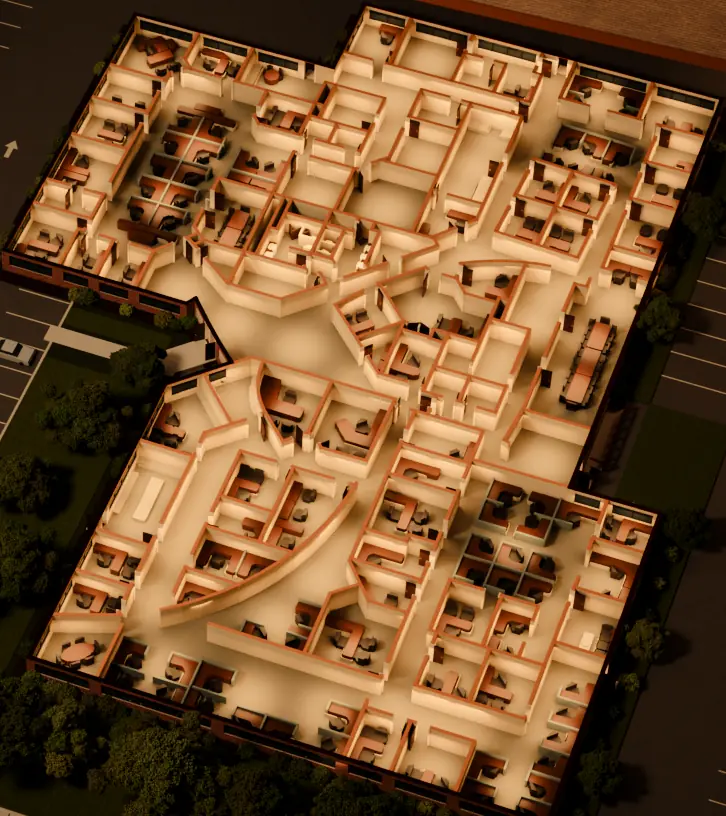
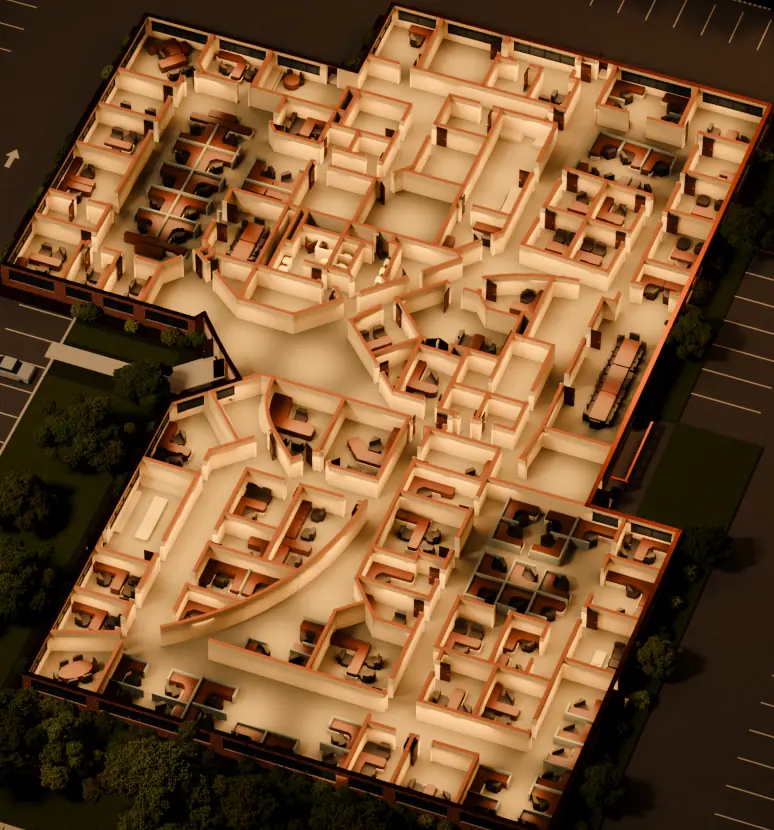
Publish site

diff --git a/rooms.js b/rooms.js
@@ -1,3 +1,5 @@
-const ROOMS=[[1,[1150,205,1197,218,1174,265,1127,252],[1149,226,1195,238,1173,285,1125,273]],[2,[1197,218,1259,234,1255,242,1251,251,1237,282,1174,265],[1195,238,1257,255,1253,262,1249,271,1235,302,1173,285]],[3,[1438,282,1507,300,1492,339,1428,321,1423,320],[1435,302,1503,320,1488,359,1425,342,1420,340]],[4,[1237,282,1250,254,1268,258,1279,262,1291,265,1278,293],[1235,302,1248,274,1266,279,1277,282,1289,285,1276,313]],[5,[1259,234,1328,253,1322,267,1319,273,1327,276,1314,303,1278,293,1291,265,1279,262,1268,258,1250,254,1251,251,1255,242],[1257,255,1326,273,1319,287,1316,293,1324,296,1312,323,1276,313,1289,285,1277,282,1266,279,1248,274,1249,271,1253,262]],[6,[1492,339,1478,375,1430,362,1440,337,1444,328,1445,326],[1488,359,1474,395,1427,382,1437,357,1441,348,1441,346]],[7,[893,265,920,215,984,232,969,259,975,270,968,269,957,273,954,274,950,281],[893,285,921,236,983,253,969,279,975,290,968,290,957,293,954,294,950,301]],[8,[984,232,1038,247,1020,282,1018,282,1006,279,975,270,969,259],[983,253,1038,268,1020,303,1018,302,1006,299,975,290,969,279]],[12,[1206,290,1256,304,1243,331,1194,317],[1205,310,1254,324,1242,351,1192,337]],[13,[1194,317,1243,331,1222,377,1165,361,1174,358,1188,328,1193,319],[1192,337,1242,351,1221,397,1164,381,1173,378,1186,349,1191,339]],[14,[1307,317,1268,405,1232,395,1220,391,1216,390,1256,304],[1305,338,1266,425,1230,415,1218,412,1215,410,1254,324]],[15,[1478,375,1463,412,1415,399,1426,374,1429,365,1430,362],[1474,395,1460,432,1412,419,1423,394,1426,385,1427,382]],[16,[875,297,893,265,950,281,949,283,944,292,933,313],[876,317,893,285,950,301,949,304,944,312,933,333]],[17,[1052,291,1100,304,1084,336,1043,325,1039,317,1040,316,1044,307],[1051,311,1099,325,1083,356,1043,345,1038,338,1039,336,1043,327]],[20,[1319,359,1357,372,1340,407,1300,395,1313,370,1318,362],[1316,380,1355,392,1338,427,1298,415,1311,390,1315,382]],[21,[1322,445,1340,407,1382,420,1381,422,1363,459],[1319,466,1338,427,1379,440,1378,442,1360,479]],[22,[1357,372,1400,385,1398,387,1382,420,1340,407],[1355,392,1397,406,1395,407,1379,440,1338,427]],[23,[1463,412,1445,459,1396,446,1415,399],[1460,432,1441,479,1393,466,1412,419]],[24,[854,334,875,297,933,313,913,350],[855,354,876,317,933,333,913,370]],[25,[1038,247,1118,269,1127,252,1303,300,1297,315,1206,290,1193,319,1188,328,1174,358,1156,364,1144,370,1140,369,1079,352,1057,394,1004,379,988,409,979,427,984,434,970,439,958,444,939,452,914,445,869,432,870,430,875,421,890,393,895,384,944,292,949,283,954,274,957,273,968,269,975,270,1006,279,1018,282,1052,291,1044,307,1040,316,1039,317,1043,325,1084,336,1088,336,1099,340,1129,348,1142,351,1145,352,1158,324,1162,315,1170,299,1110,283,1100,304,1020,282],[1038,268,1117,289,1125,273,1301,320,1294,335,1205,310,1191,339,1186,349,1173,378,1154,384,1143,390,1139,390,1078,372,1057,414,1004,399,988,429,979,447,984,454,970,459,958,464,939,472,915,465,870,452,871,450,875,441,890,413,895,404,944,312,949,304,954,294,957,293,968,290,975,290,1006,299,1018,302,1051,311,1043,327,1039,336,1038,338,1043,345,1083,356,1087,357,1099,360,1128,368,1140,371,1144,372,1157,344,1161,335,1169,319,1110,303,1099,325,1020,303]],[26,[1140,369,1119,411,1069,397,1057,394,1079,352],[1139,390,1118,431,1068,418,1057,414,1078,372]],[27,[1222,377,1197,433,1119,411,1140,369,1144,370,1156,364,1165,361],[1221,397,1195,453,1118,431,1139,390,1143,390,1154,384,1164,381]],[28,[1216,390,1220,391,1232,395,1268,405,1261,421,1252,424,1241,429,1218,438,1219,440,1197,433],[1215,410,1218,412,1230,415,1266,425,1259,441,1250,444,1239,449,1216,458,1217,460,1195,453]],[29,[1300,395,1340,407,1322,445,1280,432],[1298,415,1338,427,1319,466,1278,452]],[30,[829,379,854,334,913,350,895,384,890,393,888,396,868,390],[830,399,855,354,913,370,895,404,890,413,889,416,869,410]],[31,[1057,394,1029,452,989,441,979,427,988,409,1004,379],[1057,414,1028,472,988,461,979,447,988,429,1004,399]],[39,[1240,479,1247,464,1260,463,1275,462,1291,462,1306,463,1311,463,1295,501,1284,498,1282,503,1250,494],[1239,499,1245,484,1258,483,1273,482,1288,482,1304,483,1309,483,1293,521,1282,518,1280,523,1248,514]],[41,[843,467,789,451,816,402,876,419,875,421,870,430,869,432,863,430],[844,487,791,471,817,422,876,439,875,441,871,450,870,452,864,450]],[42,[816,402,829,379,868,390,888,396,876,419],[817,422,830,399,869,410,889,416,876,439]],[44,[989,441,1029,452,1012,484,990,459,983,450,979,445],[988,461,1028,472,1012,504,990,479,983,470,979,465]],[46,[1163,484,1164,484,1188,522,1144,538,1141,538,1120,506,1150,490,1162,487],[1161,504,1163,504,1187,542,1143,558,1139,558,1119,526,1148,510,1161,507]],[47,[1164,484,1211,468,1214,471,1226,475,1240,479,1250,494,1282,503,1265,543,1216,529,1204,527,1188,522],[1163,504,1209,488,1212,491,1225,495,1239,499,1248,514,1280,523,1263,563,1214,549,1203,546,1187,542]],[48,[1188,522,1204,527,1216,529,1219,530,1215,538,1186,530],[1187,542,1203,546,1214,549,1217,550,1214,558,1184,550]],[50,[879,477,843,467,863,430,899,440],[880,497,844,487,864,450,899,460]],[51,[919,489,879,477,899,440,914,445,939,452],[920,509,880,497,899,460,915,465,939,472]],[52,[1166,575,1186,530,1215,538,1214,539,1229,544,1210,587,1206,586,1193,583],[1164,595,1184,550,1214,558,1212,559,1227,564,1208,607,1204,606,1192,603]],[56,[987,573,1016,564,1017,564,1037,558,1049,562,1047,566,1045,570,1044,575,1043,580,1043,584,1043,589,1043,594,1044,599,1046,604,1048,608,1050,613,1046,615,1032,620,1017,625],[987,593,1016,583,1017,584,1036,578,1048,582,1046,585,1045,590,1043,595,1043,599,1042,604,1042,609,1043,614,1044,619,1045,623,1047,628,1049,633,1045,634,1031,640,1017,644]],[57,[1049,562,1117,582,1093,634,1090,634,1077,639,1068,642,1050,613,1048,608,1046,604,1044,599,1043,594,1043,589,1043,584,1043,580,1044,575,1045,570,1047,566],[1048,582,1116,601,1092,654,1089,653,1076,659,1067,662,1049,633,1047,628,1045,623,1044,619,1043,614,1042,609,1042,604,1043,599,1043,595,1045,590,1046,585]],[58,[1117,582,1180,600,1178,604,1151,662,1106,649,1104,644,1096,635,1093,634],[1116,601,1178,620,1176,624,1150,681,1105,668,1103,664,1095,655,1092,654]],[59,[1200,612,1268,632,1254,664,1186,644,1187,641,1191,630],[1198,631,1266,652,1252,684,1184,664,1185,660,1190,650]],[60,[923,640,950,585,987,573,1017,625,989,633,984,644,979,654,978,657],[923,660,950,605,987,593,1017,644,989,653,984,664,979,674,978,676]],[61,[1186,644,1254,664,1248,680,1242,694,1173,674],[1184,664,1252,684,1246,699,1240,714,1171,693]],[62,[1393,699,1445,715,1431,754,1378,738,1379,736,1383,725],[1390,719,1442,734,1427,774,1375,758,1376,756,1380,745]],[63,[879,729,923,640,978,657,945,725,940,736,935,747],[879,749,923,660,978,676,945,744,940,755,935,766]],[64,[1025,652,1062,663,1076,667,1079,668,1058,713,1004,696],[1025,671,1062,682,1075,686,1078,687,1057,732,1004,715]],[65,[1079,668,1120,680,1140,686,1132,698,1121,712,1109,726,1095,740,1079,752,1078,753,1044,743],[1078,687,1119,699,1139,705,1131,717,1120,732,1108,746,1094,759,1079,771,1077,773,1043,762]],[66,[1173,674,1242,694,1231,721,1226,732,1222,744,1193,735,1190,742,1149,729],[1171,693,1240,714,1229,741,1225,751,1220,763,1191,755,1189,761,1147,749]],[67,[1004,696,1058,713,1044,743,990,726,992,723,996,713],[1004,715,1057,732,1043,762,990,746,991,743,996,732]],[68,[1135,759,1206,781,1199,796,1192,814,1153,802,1145,785,1134,762],[1134,778,1204,800,1198,816,1191,833,1152,821,1144,804,1133,781]],[69,[1149,729,1190,742,1193,735,1222,744,1218,753,1206,781,1135,759],[1147,749,1189,761,1191,755,1220,763,1216,772,1204,800,1134,778]],[70,[1235,781,1287,796,1267,847,1215,831],[1233,800,1284,816,1265,866,1213,850]],[71,[1413,804,1393,859,1338,842,1354,803,1358,792,1359,788],[1410,823,1390,878,1336,861,1351,822,1355,811,1356,807]],[72,[858,770,879,729,935,747,922,772,917,783,915,787],[859,789,879,749,935,766,923,792,917,802,916,806]],[73,[990,726,1078,753,1063,764,1045,774,1027,784,1024,785,970,768,971,766,976,756],[990,746,1077,773,1062,783,1045,794,1026,803,1023,805,970,787,971,785,976,775]],[74,[1145,785,1153,802,1192,814,1172,864,1167,875,1165,879,1089,854,1115,794],[1144,804,1152,821,1191,833,1170,883,1165,894,1164,898,1088,873,1114,814]],[75,[1275,849,1253,902,1200,886,1212,856,1217,845,1222,833],[1272,869,1251,921,1198,905,1210,875,1215,864,1220,852]],[76,[1329,866,1314,906,1310,918,1309,920,1253,902,1275,849],[1326,885,1311,925,1307,936,1306,938,1251,921,1272,869]],[77,[836,815,858,770,915,787,909,801,904,812,906,816],[837,834,859,789,916,806,909,820,904,831,906,835]],[78,[1175,974,1128,959,1150,907,1178,916,1192,921,1196,922],[1173,993,1127,978,1148,926,1176,935,1190,939,1194,941]],[79,[1239,995,1175,974,1196,922,1201,924,1215,928,1260,942],[1237,1013,1173,993,1194,941,1199,942,1213,947,1257,961]],[80,[1188,522,1186,530,1166,575,1164,574,1147,548,1141,539,1141,538,1144,538],[1187,542,1184,550,1164,595,1162,594,1146,568,1140,559,1139,558,1143,558]],[81,[1445,459,1436,482,1423,479,1397,471,1387,469,1396,446],[1441,479,1432,502,1420,499,1394,491,1384,489,1393,466]],[82,[1433,489,1378,630,1308,610,1309,609,1325,568,1344,523,1348,513,1360,484,1372,488,1375,478],[1430,509,1375,650,1305,630,1306,629,1323,588,1341,543,1345,533,1357,504,1369,507,1373,498]],[83,[1378,630,1355,688,1285,668,1295,644,1289,641,1308,610],[1375,650,1352,708,1282,688,1292,664,1287,661,1305,630]],[84,[1431,754,1413,804,1359,788,1364,776,1373,751,1378,738],[1427,774,1410,823,1356,807,1361,796,1370,770,1375,758]],[85,[1287,796,1323,807,1309,843,1303,858,1267,847],[1284,816,1320,827,1307,862,1301,877,1265,866]],[86,[970,768,1024,785,1007,792,987,800,966,806,951,809,958,794],[970,787,1023,805,1007,812,987,819,966,825,951,829,958,813]],[87,[881,880,814,858,836,815,906,816,907,826],[881,899,815,877,837,834,906,835,907,845]]];
-const OUTER=[1149,226,1503,320,1352,708,1442,734,1330,1043,815,877,950,605,1016,583,1003,561,992,542,981,519,971,524,791,471,921,236,1117,289];
-const CROP=[785, 201, 726, 816];
+const ROOMS=[[1,[1070,320,1120,333,1094,384,1043,370],[1070,342,1119,355,1093,406,1043,392]],[2,[1120,333,1186,351,1181,359,1177,369,1160,402,1094,384],[1119,355,1185,373,1180,381,1176,391,1159,424,1093,406]],[3,[1375,402,1447,421,1428,462,1362,444,1356,442],[1373,424,1445,443,1426,484,1360,466,1354,464]],[4,[1160,402,1175,372,1194,377,1206,380,1219,384,1203,414],[1159,424,1174,394,1193,399,1205,402,1218,406,1202,436]],[5,[1186,351,1259,371,1251,386,1248,393,1256,395,1242,424,1203,414,1219,384,1206,380,1194,377,1175,372,1177,369,1181,359],[1185,373,1258,393,1250,408,1247,414,1255,417,1240,446,1202,436,1218,406,1205,402,1193,399,1174,394,1176,391,1180,381]],[6,[1428,462,1411,500,1362,486,1374,460,1378,451,1379,449],[1426,484,1409,521,1360,508,1372,482,1376,473,1377,470]],[7,[793,383,823,331,891,349,875,377,881,389,873,388,861,393,858,393,854,400],[794,405,824,352,891,371,876,399,882,411,873,410,862,414,859,415,855,422]],[8,[891,349,949,365,929,402,926,402,914,398,881,389,875,377],[891,371,949,387,929,424,927,424,914,420,882,411,876,399]],[12,[1127,411,1179,425,1165,454,1112,439],[1126,432,1178,447,1164,475,1112,461]],[13,[1112,439,1165,454,1140,502,1080,485,1090,482,1106,451,1111,441],[1112,461,1164,475,1140,524,1080,507,1089,504,1105,473,1111,463]],[14,[1233,440,1188,532,1150,521,1137,517,1133,516,1179,425],[1232,461,1187,553,1149,543,1137,539,1133,538,1178,447]],[15,[1411,500,1393,539,1344,525,1356,499,1360,490,1362,486],[1409,521,1391,560,1342,547,1354,520,1358,511,1360,508]],[16,[773,418,793,383,854,400,852,403,847,413,835,435],[774,440,794,405,855,422,853,425,848,434,836,457]],[17,[962,412,1013,426,995,459,952,447,948,440,949,438,953,429],[962,433,1013,448,995,481,952,469,948,461,949,459,953,450]],[20,[1243,484,1284,497,1263,534,1222,521,1237,495,1242,487],[1242,506,1282,519,1262,556,1221,543,1236,517,1241,508]],[21,[1242,574,1263,534,1307,547,1306,549,1284,587],[1241,595,1262,556,1305,569,1304,571,1283,609]],[22,[1284,497,1328,511,1326,513,1307,547,1263,534],[1282,519,1327,533,1324,535,1305,569,1262,556]],[23,[1393,539,1371,588,1320,574,1344,525],[1391,560,1369,610,1319,596,1342,547]],[24,[751,457,773,418,835,435,813,474],[752,479,774,440,836,457,813,496]],[25,[949,365,1034,388,1043,370,1230,421,1222,437,1127,411,1111,441,1106,451,1090,482,1070,489,1058,494,1053,494,989,476,965,520,909,504,891,536,881,555,886,562,871,567,859,573,838,580,812,573,765,559,766,558,771,548,787,519,793,509,847,413,852,403,858,393,861,393,873,388,881,389,914,398,926,402,962,412,953,429,949,438,948,440,952,447,995,459,999,460,1011,464,1042,472,1056,475,1059,476,1075,446,1079,437,1088,420,1025,403,1013,426,929,402],[949,387,1034,410,1043,392,1229,443,1221,458,1126,432,1111,463,1105,473,1089,504,1070,510,1057,516,1053,516,989,498,965,541,909,526,892,558,881,576,887,584,872,589,859,594,839,602,813,594,766,581,767,579,772,570,788,541,794,531,848,434,853,425,859,415,862,414,873,410,882,411,914,420,927,424,962,433,953,450,949,459,948,461,952,469,995,481,999,481,1011,485,1042,494,1055,497,1059,498,1074,468,1079,459,1087,442,1025,425,1013,448,929,424]],[26,[1053,494,1029,538,977,524,965,520,989,476],[1053,516,1029,560,977,545,965,541,989,498]],[27,[1140,502,1111,561,1029,538,1053,494,1058,494,1070,489,1080,485],[1140,524,1110,583,1029,560,1053,516,1057,516,1070,510,1080,507]],[28,[1133,516,1137,517,1150,521,1188,532,1180,548,1170,551,1158,556,1133,566,1134,568,1111,561],[1133,538,1137,539,1149,543,1187,553,1179,570,1169,573,1157,578,1132,587,1133,589,1110,583]],[29,[1222,521,1263,534,1242,574,1199,560],[1221,543,1262,556,1241,595,1198,582]],[30,[724,504,751,457,813,474,793,509,787,519,786,522,765,516],[725,526,752,479,813,496,794,531,788,541,787,544,766,538]],[31,[965,520,933,581,891,569,881,555,891,536,909,504],[965,541,933,602,891,591,881,576,892,558,909,526]],[39,[1155,608,1163,593,1176,591,1192,591,1208,591,1224,592,1230,592,1211,632,1200,628,1197,634,1164,624],[1154,630,1162,614,1175,613,1191,612,1207,612,1223,613,1229,614,1210,653,1199,650,1196,655,1163,646]],[41,[737,596,681,579,710,529,772,546,771,548,766,558,765,559,759,557],[739,617,682,601,711,551,773,568,772,570,767,579,766,581,760,579]],[42,[710,529,724,504,765,516,786,522,772,546],[711,551,725,526,766,538,787,544,773,568]],[44,[891,569,933,581,915,614,892,587,885,578,881,574],[891,591,933,602,915,635,893,609,885,600,881,595]],[46,[1073,614,1074,613,1098,653,1052,669,1048,669,1027,636,1059,620,1072,616],[1073,635,1074,635,1098,674,1051,690,1047,691,1027,657,1059,642,1072,638]],[47,[1074,613,1124,597,1127,600,1140,604,1155,608,1164,624,1197,634,1177,674,1127,660,1115,657,1098,653],[1074,635,1123,619,1126,622,1139,626,1154,630,1163,646,1196,655,1177,696,1126,682,1114,679,1098,674]],[48,[1098,653,1115,657,1127,660,1130,661,1126,669,1095,661],[1098,674,1114,679,1126,682,1129,682,1125,690,1095,682]],[50,[775,607,737,596,759,557,796,568],[776,628,739,617,760,579,797,590]],[51,[817,619,775,607,796,568,812,573,838,580],[818,641,776,628,797,590,813,594,839,602]],[52,[1072,707,1095,661,1126,669,1125,670,1140,675,1118,719,1114,718,1101,715],[1072,728,1095,682,1125,690,1124,692,1139,696,1118,741,1113,740,1100,736]],[56,[886,705,917,695,918,696,938,690,951,693,949,697,947,702,945,707,944,712,944,716,944,721,944,726,945,731,947,736,948,741,951,745,946,747,931,753,916,757],[887,726,917,717,918,717,938,711,951,715,949,719,947,723,946,728,945,733,944,738,944,743,944,748,945,753,947,757,949,762,951,767,947,769,932,774,916,779]],[57,[951,693,1021,714,994,767,991,766,978,772,968,775,951,745,948,741,947,736,945,731,944,726,944,721,944,716,944,712,945,707,947,702,949,697],[951,715,1021,735,994,788,991,788,978,793,968,796,951,767,949,762,947,757,945,753,944,748,944,743,944,738,945,733,946,728,947,723,949,719]],[58,[1021,714,1086,732,1084,737,1054,794,1008,781,1006,777,998,768,994,767],[1021,735,1086,754,1084,758,1054,816,1007,803,1005,798,998,789,994,788]],[59,[1107,744,1177,764,1161,797,1091,777,1092,773,1097,763],[1106,765,1176,786,1160,819,1090,798,1092,795,1097,784]],[60,[818,773,847,717,886,705,916,757,887,766,881,777,876,787,875,790],[818,794,848,739,887,726,916,779,887,787,882,798,877,809,876,811]],[61,[1091,777,1161,797,1154,812,1147,827,1076,807],[1090,798,1160,819,1153,834,1146,849,1076,828]],[62,[1303,832,1356,847,1339,887,1285,871,1286,869,1291,858],[1301,854,1354,869,1337,908,1284,892,1285,890,1290,879]],[63,[770,862,818,773,875,790,839,858,834,868,828,879],[771,883,818,794,876,811,840,879,835,890,829,901]],[64,[924,784,962,795,976,800,979,801,956,845,901,829],[924,806,962,817,976,821,979,822,956,867,901,850]],[65,[979,801,1021,813,1042,819,1033,831,1021,845,1008,859,993,872,977,885,975,886,940,876],[979,822,1021,834,1041,840,1033,852,1021,866,1008,880,993,894,977,906,975,907,941,897]],[66,[1076,807,1147,827,1134,854,1129,865,1124,877,1095,868,1092,875,1049,862],[1076,828,1146,849,1134,875,1129,886,1123,898,1094,889,1091,896,1049,883]],[67,[901,829,956,845,940,876,885,859,887,856,892,846],[901,850,956,867,941,897,886,881,888,877,892,867]],[68,[1034,892,1106,913,1099,929,1091,946,1051,934,1043,917,1033,894],[1034,913,1106,934,1098,950,1090,967,1051,955,1043,938,1033,916]],[69,[1049,862,1092,875,1095,868,1124,877,1120,885,1106,913,1034,892],[1049,883,1091,896,1094,889,1123,898,1119,906,1106,934,1034,913]],[70,[1136,913,1189,928,1166,978,1113,962],[1135,934,1188,950,1165,999,1112,983]],[71,[1318,936,1294,990,1239,973,1257,935,1262,924,1264,920],[1316,957,1293,1011,1238,994,1256,956,1260,945,1262,941]],[72,[749,902,770,862,828,879,815,905,809,916,807,919],[750,923,771,883,829,901,816,926,810,937,808,941]],[73,[885,859,975,886,960,896,941,907,922,916,919,918,864,901,865,899,870,889],[886,881,975,907,960,917,941,928,922,937,919,939,865,922,866,920,871,910]],[74,[1043,917,1051,934,1091,946,1068,995,1062,1005,1061,1009,983,985,1012,926],[1043,938,1051,955,1090,967,1067,1016,1062,1026,1060,1030,983,1006,1012,948]],[75,[1174,981,1150,1032,1096,1016,1110,987,1115,976,1120,964],[1173,1002,1149,1053,1095,1037,1109,1008,1114,997,1119,986]],[76,[1229,997,1211,1035,1206,1047,1205,1049,1150,1032,1174,981],[1227,1018,1210,1056,1205,1068,1204,1070,1149,1053,1173,1002]],[77,[725,947,749,902,807,919,800,933,795,943,797,947],[726,968,750,923,808,941,801,954,796,965,798,968]],[78,[1067,1101,1020,1087,1044,1037,1072,1046,1086,1050,1090,1051],[1067,1122,1020,1108,1043,1058,1072,1067,1086,1071,1090,1072]],[79,[1131,1121,1067,1101,1090,1051,1096,1053,1110,1057,1154,1071],[1131,1142,1067,1122,1090,1072,1095,1074,1109,1078,1153,1092]],[80,[1098,653,1095,661,1072,707,1070,706,1054,680,1048,670,1048,669,1052,669],[1098,674,1095,682,1072,728,1070,727,1053,701,1048,692,1047,691,1051,690]],[81,[1371,588,1360,612,1347,608,1320,600,1309,598,1320,574],[1369,610,1358,633,1345,630,1319,622,1308,619,1319,596]],[82,[1357,619,1291,763,1219,743,1220,741,1239,700,1261,654,1266,643,1280,614,1292,617,1297,608],[1355,641,1289,784,1218,764,1219,763,1238,721,1260,675,1265,665,1279,636,1291,639,1295,629]],[83,[1291,763,1264,821,1192,801,1204,777,1198,774,1219,743],[1289,784,1263,843,1191,822,1203,798,1197,795,1218,764]],[84,[1339,887,1318,936,1264,920,1269,909,1280,884,1285,871],[1337,908,1316,957,1262,941,1268,930,1278,905,1284,892]],[85,[1189,928,1225,939,1210,974,1202,989,1166,978],[1188,950,1224,960,1209,995,1201,1010,1165,999]],[86,[864,901,919,918,902,925,881,932,859,938,843,941,851,926],[865,922,919,939,902,946,881,953,860,959,844,962,852,947]],[87,[770,1010,702,989,725,947,797,947,798,957],[771,1031,704,1010,726,968,798,968,799,979]]];
+const OUTER=[1070,342,1445,443,1263,843,1354,869,1223,1170,704,1010,848,739,917,717,904,694,893,674,882,651,872,656,682,601,824,352,1034,410];
+const CROP=[677, 316, 774, 830];
+const FRAME=[1980, 1620];
+const MODEL=[52, 50, 1928, 1569];

diff --git a/site.js b/site.js
@@ -55,23 +55,19 @@ function setLang(l) {
 }
 $('#lang').addEventListener('click', () => setLang(root.lang === 'en' ? 'ru' : 'en'));
 
-// --- Камера над кадром: какая часть кадра на экране и насколько крупно --------------------------
-const BOX = [775, 205, 1515, 1040];
+// --- Макет на экране: целиком по центру, под заголовком. Не шире PLACE.wide экрана (телефон на всю ширину), и вместе с заголовком помещается в экран, снизу air точек воздуха ---
+const PLACE = { wide: .75, air: 40 };
 const view = { k: 1, x: 0, y: 0 };
 const apply = () => { rig.style.transform = `translate(${view.x}px,${view.y}px) scale(${view.k})`; };
-// Телефон стоймя: заголовок сверху, макет крупнее ширины экрана, его можно двигать пальцем вбок
+// Телефон стоймя: лист комнаты закрывает низ экрана, макет под ним приподнимается (sheet.js)
 const tall = () => matchMedia('(max-width:899px) and (orientation:portrait)').matches;
+Object.assign(rig.style, { width: FRAME[0] + 'px', height: FRAME[1] + 'px' });
 
 function place() {
-  const w = plan.clientWidth, h = plan.clientHeight, [x0, y0, x1, y1] = BOX, bw = x1 - x0, bh = y1 - y0;
-  const head = tall() ? $('.plan-head').offsetHeight : 0, room = h - head;
-  planStage.style.top = head + 'px';
-  // Сбоку от макета остаётся место для заголовка: левый край стола на его высоте примерно на 480 в кадре
-  const free = $('.plan-head').offsetLeft + $('.plan-head').offsetWidth + 16;
-  // Кадр всегда выше экрана: его верх и низ обрезаны ровной линией и показаться не должны
-  const k = tall() ? Math.min((room - 12) / bh, w * 1.38 / bw) : Math.max(h / 1080, Math.min((h - 32) / bh, 1.3, (w - free) / (x1 - 480)));
-  const cx = tall() ? w / 2 : Math.min(w - bw * k / 2 - 8, Math.max(w * .68, free + (x0 + bw / 2 - 480) * k));
-  Object.assign(view, { k, x: cx - (x0 + bw / 2) * k, y: Math.max(Math.max(tall() ? 4 : 16, (room - bh * k) / 2) - y0 * k, room - 1080 * k) });
+  const [x0, y0, x1, y1] = MODEL, w = planStage.clientWidth;
+  const k = Math.min((innerWidth < 900 ? w : Math.min(w, innerWidth * PLACE.wide)) / (x1 - x0), Math.max(160, innerHeight - planStage.offsetTop - PLACE.air) / (y1 - y0));
+  planStage.style.height = (y1 - y0) * k + 'px';
+  Object.assign(view, { k, x: (w - (x0 + x1) * k) / 2, y: -y0 * k });
   lifted = 0;
   rig.style.transition = 'none'; // на свои места сразу, плавно едет только подъём под лист
   if (shown) lift(shown); else apply();
@@ -82,7 +78,6 @@ function place() {
 // Страницу двинули дальше: лист уходит сразу, чтобы прокрутка не казалась зависшей
 addEventListener('scroll', () => { if (Math.abs(scrollY - sheetAt) > 40) closeSheet(true); }, { passive: true });
 addEventListener('resize', place);
-
 // --- Комнаты: контуры лежат в странице, отклик есть с первого касания ---------------------------
 const SCALE = 1.5;
 const [CX, CY, CW, CH] = CROP;
@@ -181,35 +176,22 @@ function setHot(r) {
   wake();
 }
 
-// --- Палец и мышь. Вниз страницу прокручивает сам браузер, вбок палец идёт по комнатам ------------
+// --- Палец и мышь. Страницу прокручивает сам браузер, нажатие открывает комнату ------------
 function point(e) {
-  const b = rig.getBoundingClientRect(), k = b.width / 1920;
+  const b = rig.getBoundingClientRect(), k = b.width / FRAME[0];
   return roomAt((e.clientX - b.left) / k, (e.clientY - b.top) / k, k);
 }
-// Палец двигает крупный макет вбок, короткое нажатие открывает комнату
-let dragX = null, dragged = false;
 rig.addEventListener('pointerdown', (e) => {
-  dragged = false;
   if (e.pointerType === 'mouse') return;
   setHot(point(e));
   if (hot) hot.a = 1; // палец: комната горит сразу, без нарастания
-  dragX = tall() ? e.clientX : null;
-  rig.style.transition = 'none';
 });
 rig.addEventListener('pointermove', (e) => {
   setHot(point(e));
   if (e.pointerType === 'mouse') rig.classList.toggle('over', !!hot); // рука только над комнатой
-  if (dragX === null) return;
-  const by = e.clientX - dragX;
-  if (Math.abs(by) < 4 && !dragged) return;
-  dragged = true;
-  dragX = e.clientX;
-  view.x = Math.min(8 - BOX[0] * view.k, Math.max(plan.clientWidth - 8 - BOX[2] * view.k, view.x + by));
-  apply();
 });
-['pointerup', 'pointercancel', 'pointerleave'].forEach((n) => rig.addEventListener(n, () => { setHot(null); dragX = null; rig.style.transition = ''; }));
+['pointerup', 'pointercancel', 'pointerleave'].forEach((n) => rig.addEventListener(n, () => setHot(null)));
 rig.addEventListener('click', (e) => {
-  if (dragged) return;
   const r = point(e);
   if (r) openSheet(r);
 });
@@ -321,48 +303,6 @@ lead.addEventListener('submit', (e) => {
   leadOff.scrollIntoView({ block: 'nearest' });
 });
 
-// --- Первый экран: картинка здания разрезана на полосы, как вырезанные люди у Žít Braník. В покое она целая (rest, доля высоты, 0),
-// при загрузке полосы съезжаются с разной высоты, при прокрутке вниз расходятся, каждая со своей скоростью. Без движения остаётся целая картинка ---
-const STRIPS = { desk: 14, phone: 7, drift: .32, rest: 0 }; // drift: насколько сильнее страницы уезжает самая быстрая полоса
-const heroBox = $('.hero'), heroPhoto = $('.hero .photo');
-addEventListener('resize', () => heroFrame());
-let heroStrips = [];
-function cutHero() {
-  const img = heroPhoto.querySelector('img'), n = innerWidth < 900 ? STRIPS.phone : STRIPS.desk;
-  const band = document.createElement('div');
-  band.className = 'bands';
-  heroStrips = [...Array(n)].map((_, i) => {
-    const s = document.createElement('i'), copy = document.createElement('img');
-    copy.src = img.currentSrc || img.src;
-    copy.alt = '';
-    s.style.clipPath = `inset(0 ${(100 - (i + 1) * 100 / n - .05).toFixed(3)}% 0 ${(i * 100 / n).toFixed(3)}%)`;
-    s.speed = ((i * .618) % 1) * STRIPS.drift;
-    s.rest = (i % 2 ? 1 : -1) * (.3 + .7 * ((i * .382) % 1)) * STRIPS.rest;
-    s.append(copy);
-    // Сборка: полоса приходит сверху или снизу на долю своей высоты, по очереди от середины к краям
-    copy.animate([{ transform: `translateY(${((i % 2 ? 1 : -1) * (6 + 10 * ((i * .382) % 1))).toFixed(1)}%)`, opacity: 0 }, { transform: 'none', opacity: 1 }],
-      { duration: 1400, delay: 60 * Math.abs(i - (n - 1) / 2), easing: 'cubic-bezier(.16,1,.3,1)', fill: 'backwards' });
-    band.append(s);
-    return s;
-  });
-  heroPhoto.append(band);
-  heroBox.classList.add('cut');
-}
-function heroFrame() {
-  const y = Math.min(scrollY, heroBox.offsetHeight), h = heroPhoto.offsetHeight;
-  heroStrips.forEach((s) => { s.style.transform = `translate3d(0,${(s.rest * h - y * s.speed).toFixed(1)}px,0)`; });
-}
-if (!still) {
-  const img = heroPhoto.querySelector('img');
-  const go = () => { cutHero(); heroFrame(); };
-  if (img.complete && img.naturalWidth) go(); else img.addEventListener('load', go, { once: true });
-  let heroQueued = false;
-  addEventListener('scroll', () => {
-    if (heroQueued || scrollY > innerHeight * 1.5) return;
-    heroQueued = true;
-    requestAnimationFrame(() => { heroQueued = false; heroFrame(); });
-  }, { passive: true });
-}
 // --- Цвет страницы перетекает вместе с прокруткой, как у Žít Braník: пока следующая секция поднимается от низа экрана до TONE.end его высоты,
 // поле постепенно переходит в её цвет. Текст берёт её цвет на середине пути (CSS доводит его за .5 с), иначе на миг поле и текст совпали бы.
 // Пары цветов у секций в site/design/settings.css (data-tone), здесь только смешивание ---
@@ -518,7 +458,7 @@ if (!still && 'IntersectionObserver' in window) {
   }), { rootMargin: '0px 0px -10% 0px' });
   $$('.rise').forEach((e) => { e.classList.add('wait'); rising.observe(e); });
 }
-// --- Стык первого экрана и макета: макет чуть вырастает и в комнатах постепенно загорается свет. Края кадра растворяет маска в styles.css. Всё считается только от прокрутки, сама она ничем не задерживается ---
+// --- Макет подъезжает: чуть вырастает, и в комнатах постепенно загорается свет. Всё считается только от прокрутки, сама она ничем не задерживается ---
 // from размер макета в начале
 const ARRIVE = { from: .9 };
 const nearBox = $('#near');
@@ -564,7 +504,7 @@ const LIVE_FRAGMENT = `#ifdef GL_FRAGMENT_PRECISION_HIGH
   }
   void main() {
     vec2 f = box.xy + vec2(v.x, 1. - v.y) * box.zw;
-    vec2 q = f / vec2(1920., 1080.);
+    vec2 q = f / vec2(${FRAME[0]}., ${FRAME[1]}.);
     // Луч идёт сверху вниз, пока не встретит крону: высокие части сдвигаются больше низких, край кроны не рвётся. Вся работа только рядом с деревьями
     if (texture2D(map, q).g + texture2D(map, q - shift).g > .02) {
       float h = 1., gap = 1. - crown(q - shift), low = 0., under = 0.;
@@ -647,12 +587,11 @@ function makeLive(depth) {
   rig.insertBefore(canvas, glow);
   return { canvas, gl, uBox: u('box'), uShift: u('shift'), uBeat: u('beat'), uOn: u('on') };
 }
-// Холст только на ту часть кадра, что видна на этом экране, с запасом. Точек столько, сколько даёт сам кадр, остальное дорисует браузер
+// Холст только на сам макет с запасом, без пустых краёв кадра. Точек столько, сколько даёт сам кадр, остальное дорисует браузер
 function fitLive() {
   if (!live) return;
-  const { k, x, y } = view, m = 60;
-  const x0 = Math.max(0, Math.floor(tall() ? BOX[0] - m : -x / k - m)), x1 = Math.min(1920, Math.ceil(tall() ? BOX[2] + m : (plan.clientWidth - x) / k + m));
-  const y0 = Math.max(0, Math.floor(-y / k - m)), w = x1 - x0, h = 1080 - y0, sharp = Math.min(1, k * devicePixelRatio);
+  const m = 60, x0 = Math.max(0, MODEL[0] - m), y0 = Math.max(0, MODEL[1] - m);
+  const w = Math.min(FRAME[0], MODEL[2] + m) - x0, h = Math.min(FRAME[1], MODEL[3] + m) - y0, sharp = Math.min(1, view.k * devicePixelRatio);
   Object.assign(live.canvas.style, { left: x0 + 'px', top: y0 + 'px', width: w + 'px', height: h + 'px' });
   live.canvas.width = Math.round(w * sharp);
   live.canvas.height = Math.round(h * sharp);
@@ -668,7 +607,7 @@ function liveFrame(now) {
   const treesAim = Math.max(-1, Math.min(1, plan.getBoundingClientRect().top / innerHeight)) * TREES.px;
   treesNow = treesNow === null ? treesAim : treesNow + (treesAim - treesNow) * (1 - .925 ** (Math.min(now - liveBefore, 50) / 16.7));
   liveBefore = now;
-  live.gl.uniform2f(live.uShift, TREES.sideways * treesNow / 1920, treesNow / 1080);
+  live.gl.uniform2f(live.uShift, TREES.sideways * treesNow / FRAME[0], treesNow / FRAME[1]);
   live.gl.uniform1f(live.uBeat, (now / 1000 / BREATH.seconds) % 1);
   live.gl.uniform1f(live.uOn, lightsOn);
   live.gl.drawArrays(live.gl.TRIANGLES, 0, 3);
@@ -695,7 +634,7 @@ let nudge = null, nudgesLeft = NUDGE.total, nudgeTimer = 0, nudgeBag = [];
 const nudgeSeen = () => plan.getBoundingClientRect().top < innerHeight * .35 && plan.getBoundingClientRect().bottom > innerHeight * .65;
 // Комнаты вперемешку: каждая покажется только после всех остальных, с листа и в углах не показываем
 function nextNudge() {
-  const b = rig.getBoundingClientRect(), k = b.width / 1920, head = $('.plan-head').getBoundingClientRect();
+  const b = rig.getBoundingClientRect(), k = b.width / FRAME[0], head = $('.plan-head').getBoundingClientRect();
   if (!nudgeBag.length) {
     nudgeBag = [...rooms];
     for (let i = nudgeBag.length - 1; i > 0; i--) {
@@ -776,8 +715,8 @@ function drawNudge(now) {
   }
   return true;
 }
-// Человек сам взялся за макет: мышь над ним, нажатие, стрелки или палец вбок. Прокрутка не считается
-rig.addEventListener('pointermove', (e) => { if (e.pointerType === 'mouse' || dragged) hushNudge(); });
+// Человек сам взялся за макет: мышь над ним, нажатие или стрелки. Прокрутка не считается
+rig.addEventListener('pointermove', (e) => { if (e.pointerType === 'mouse') hushNudge(); });
 rig.addEventListener('click', hushNudge);
 rig.addEventListener('keydown', hushNudge);
 if (!still) {

diff --git a/index.html b/index.html
@@ -16,19 +16,15 @@
 <link rel="preload" href="site.js" as="script">
 <link rel="stylesheet" href="styles.css">
 <style>/* Первый экран как у Lucid (выбор V 04.11 из трёх вариантов), содержание по схеме лендингов ConvertMonster (research/дизайн/первый-экран-как-делают/).
-   Фото фасада на весь экран, затемнение только слева под словами и мягко внизу, плашек нет.
+   Фото фасада на весь экран, затемнение только слева под словами, плашек нет.
    Текст белый с мягкой тенью у букв, чтобы читался с одного взгляда (V 04.11: «текст сливается с изображением»). Шапка: название, что здесь и адрес.
    Заголовок с ценой, строка «кому», три выгоды (жирный заголовок и строка пояснения), под ними объёмная кнопка, рядом с ней раскрываются
    имя и телефон (V 04.11: «форма внизу растянута… красивую кнопку, выпуклую»). Бонус — коралловая печать на фото, как круг у Žít Braník.
-   Картинка сгенерирована Codex по снимкам cl-10 и cl-06 (content/facts.md), низ уходит в винное поле, стыка с макетом нет */
+   Картинка фасада Nano Banana Pro по снимку cl-10 (content/facts.md). Внизу фото кончается ровной линией, ниже винное поле, как у Žít Braník (V 05.11) */
 .hero{position:relative;isolation:isolate;display:flex;flex-direction:column;align-items:flex-start;min-height:100vh;min-height:100svh;padding:0 var(--m) clamp(28px,5vh,48px);color:#fff;text-shadow:0 1px 2px rgba(20,8,11,.35),0 2px 20px rgba(20,8,11,.4);overflow:hidden;overflow:clip}
 .hero .photo{position:absolute;z-index:-2;inset:0;animation:settle 2.4s cubic-bezier(.16,1,.3,1) both}
 .hero .photo img{position:absolute;inset:0;width:100%;height:100%;object-fit:cover;object-position:50% 15%}
-.hero::after{content:"";position:absolute;z-index:-1;inset:0;background:linear-gradient(100deg,rgba(20,8,11,.86) 0%,rgba(20,8,11,.66) 36%,rgba(20,8,11,.3) 58%,rgba(20,8,11,0) 76%),linear-gradient(0deg,var(--claret) 0%,rgba(69,28,37,.35) 7%,rgba(69,28,37,0) 18%)}
-/* Полосы: копии одной картинки, каждая обрезана в свою полосу и движется сама (site/code/hero.js) */
-.hero .bands{position:absolute;inset:0}
-.hero .bands i{position:absolute;inset:0;will-change:transform}
-.hero.cut .photo>picture{visibility:hidden}
+.hero::after{content:"";position:absolute;z-index:-1;inset:0;background:linear-gradient(100deg,rgba(20,8,11,.86) 0%,rgba(20,8,11,.66) 36%,rgba(20,8,11,.3) 58%,rgba(20,8,11,0) 76%)}
 
 /* Шапка: название, что здесь и адрес мелко, как у ConvertMonster. Звонок, WhatsApp, язык и меню справа в углу (site/page.html) */
 .bar{display:flex;align-items:center;gap:16px;height:var(--bar)}
@@ -171,12 +167,12 @@ window.dataLayer=window.dataLayer||[];window.gtag=function(){dataLayer.push(argu
 <section class="plan" id="building" data-tone="claret">
   <div class="plan-head">
     <h2 data-en="Floor plan">План здания</h2>
-    <p data-en="Pick a room to see a photo of an office. Prices and open rooms aren't marked on the plan.">Нажмите на комнату, откроется снимок офиса. Цены и свободные комнаты на плане не отмечены.</p>
+    <p data-en="Pick a room to see a photo of an office.">Нажмите на комнату, откроется снимок офиса.</p>
   </div>
   <div class="plan-stage" id="plan-stage">
     <div class="near" id="near">
       <div class="rig" id="rig" tabindex="0" role="group" aria-label="Макет здания со снятой крышей. Стрелки выбирают комнату, Enter открывает её." data-en-label="Model of the building with the roof off. Arrow keys pick a room, Enter opens it.">
-        <img src="img/maket.webp" width="1920" height="1080" alt="">
+        <img src="img/maket.webp" alt="">
         <canvas id="glow"></canvas>
       </div>
     </div>

diff --git a/styles.css b/styles.css
@@ -57,16 +57,16 @@ details.menu summary::-webkit-details-marker{display:none}
 .btn+.btn:hover{background:var(--coral);color:var(--claret);box-shadow:none}
 .acts{display:flex;flex-wrap:wrap;gap:8px}
 
-/* Второй экран: макет лежит на общем поле, как большой снимок. Фона у него нет, край кадра сверху и снизу растворяется в поле маской, поэтому шва с соседями нет */
-.plan{position:relative;height:100vh;height:100svh;overflow:hidden;overflow:clip}
-.plan-head{position:absolute;z-index:3;left:var(--m);top:24px;width:280px}
+/* Второй блок (V 05.11): сверху по центру заголовок и строка подсказки, под ними макет целиком по центру, с воздухом.
+   Кадр макета прозрачный, поэтому он лежит прямо на общем поле: ни фона, ни рамки, ни обрезанных краёв. Размер задаёт site/code/placement.js */
+.plan{position:relative;padding:clamp(56px,9vh,88px) var(--m) 0;text-align:center;overflow:clip}
 .plan-head h2{font-size:var(--h2);line-height:1.1;font-weight:600}
-.plan-head p{margin-top:12px}
-.plan-stage{position:absolute;inset:0;overflow:hidden;overflow:clip;-webkit-mask-image:linear-gradient(transparent,#000 18%,#000 80%,transparent);mask-image:linear-gradient(transparent,#000 18%,#000 80%,transparent)}
-.near{position:absolute;inset:0;transform-origin:68% 50%}
-.rig{position:absolute;left:0;top:0;width:1920px;height:1080px;transform-origin:0 0;will-change:transform;transition:transform .5s var(--ease);touch-action:pan-y pinch-zoom;user-select:none;-webkit-user-select:none;-webkit-touch-callout:none}
+.plan-head p{margin-top:12px;font-size:18px;line-height:28px}
+.plan-stage{position:relative;margin-top:clamp(20px,3.5vh,36px)}
+.near{position:absolute;inset:0;transform-origin:50% 50%}
+.rig{position:absolute;left:0;top:0;transform-origin:0 0;will-change:transform;transition:transform .5s var(--ease);touch-action:pan-y pinch-zoom;user-select:none;-webkit-user-select:none;-webkit-touch-callout:none}
 .rig.over{cursor:pointer}
-.rig img{position:absolute;inset:0;width:1920px;height:1080px;pointer-events:none}
+.rig img{position:absolute;inset:0;width:100%;height:100%;pointer-events:none}
 .rig canvas{position:absolute;pointer-events:none}
 .rig:focus-visible{outline:none}
 .said{position:absolute;width:1px;height:1px;overflow:hidden;clip-path:inset(50%)}
@@ -83,8 +83,6 @@ details.menu summary::-webkit-details-marker{display:none}
 .close{position:absolute;right:0;top:0;width:64px;height:64px;background:var(--cream);color:var(--claret);display:grid;place-items:center}
 .close:hover{background:#e7e1d4}
 
-/* Почти квадратное окно: макету нужна ширина, заголовок уже */
-@media (min-width:900px) and (max-aspect-ratio:7/5){.plan-head{width:200px}.plan-head h2{font-size:32px}}
 
 /* Страница ниже плана: одно поле, один цвет текста, один акцент на кнопках, один столбец. На блоке заголовок, снимок и пара строк */
 .flow{display:flow-root;width:min(73.3vw,1017px);margin:auto;padding:128px 0}
@@ -144,9 +142,7 @@ figcaption{padding:16px var(--m);font-weight:600}
 
 @media (max-width:899px){
   .btn{height:56px;padding:0 24px;justify-content:center;letter-spacing:1.2px;flex:1 1 100%}
-  .plan-head{top:12px;width:180px}
-  .plan-head h2{font-size:24px}
-  .plan-head p{margin-top:6px;font-size:13px;line-height:18px}
+  .plan-head p{font-size:16px;line-height:24px}
   .flow{width:auto;margin:0;padding:80px var(--m)}
   .flow p{margin-top:24px;font-size:18px;line-height:27px}
   .flow .acts{margin-top:32px}
@@ -192,12 +188,6 @@ figcaption{padding:16px var(--m);font-weight:600}
   .sheet{width:min(56vw,480px)}
   .sheet-text{padding:8px var(--m)}
   .sheet h2{font-size:18px;line-height:22px;margin-bottom:8px}
-}
-@media (max-width:899px) and (orientation:portrait){
-  .plan-head{position:relative;left:0;top:0;width:auto;padding:72px var(--m) 12px}
-  .plan-head h2{font-size:32px}
-  .plan-head p{margin-top:12px;font-size:16px;line-height:24px}
-  .near{transform-origin:50% 45%}
 }
 @media (prefers-reduced-motion:reduce){
   html{scroll-behavior:auto}
